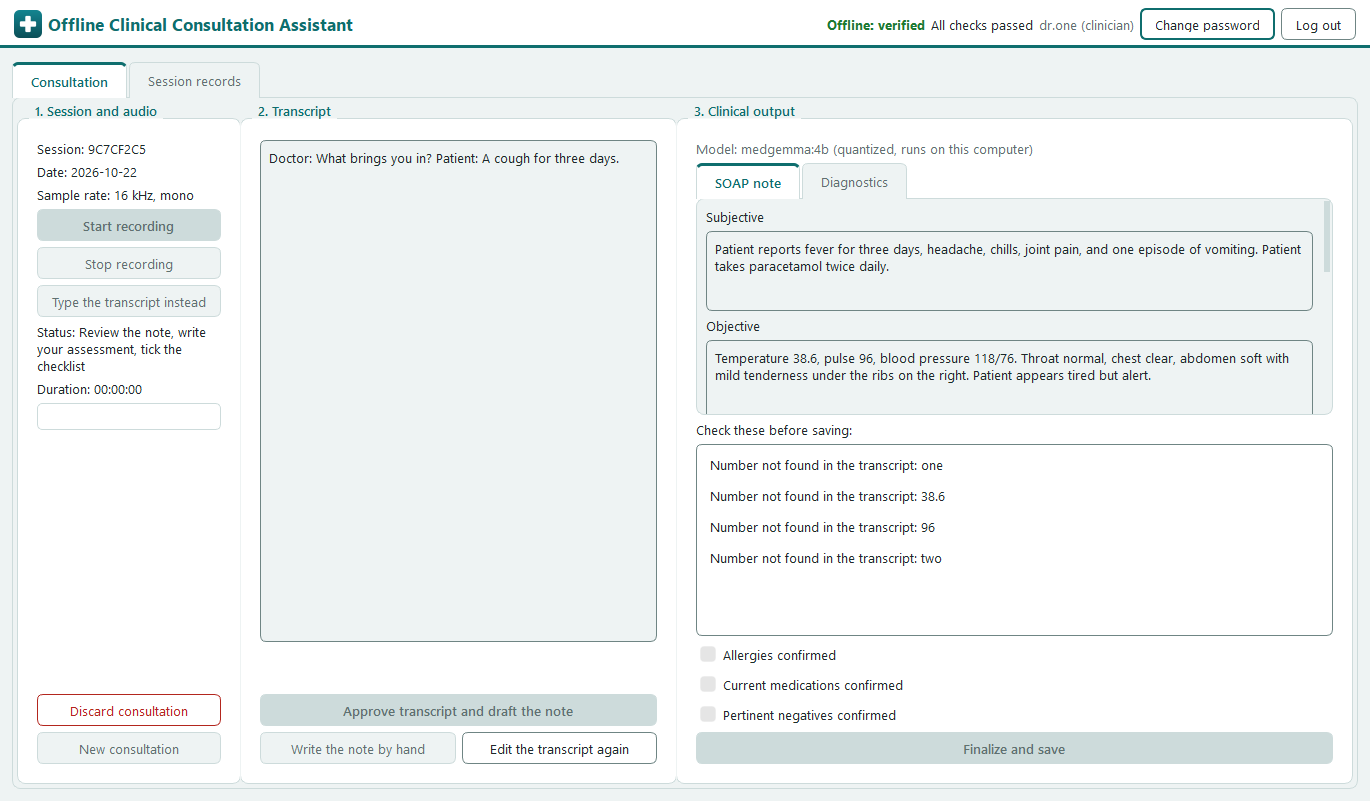
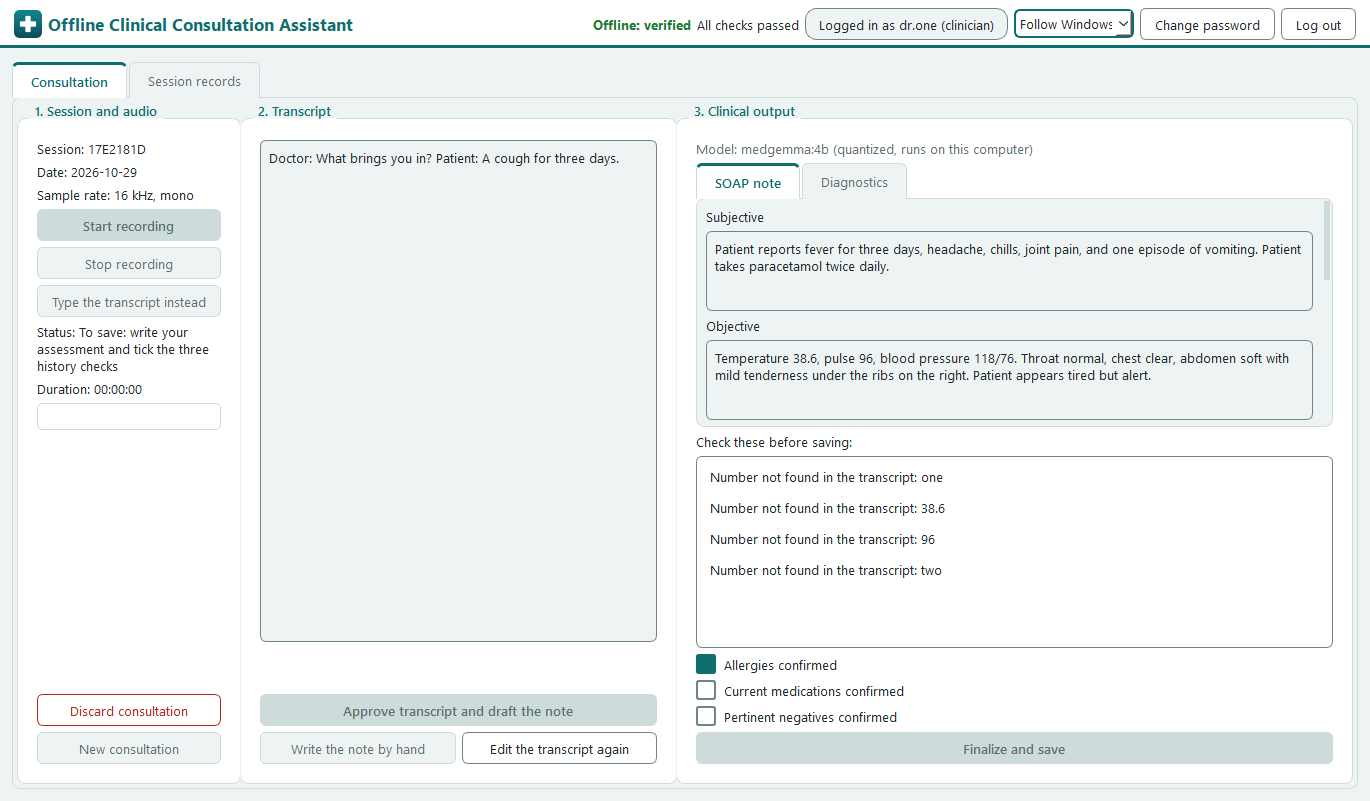
fix(ui): checklist boxes with a visible outline and a filled tick, in both themes
The history checklist is the second clinician gate, but the default box
was a pale outline on the panel and hard to see. The box now uses the
control outline (3.8:1 or more) and a ticked box fills with the brand
teal. The new test measures both; it failed on the first attempt, which
filled ticks with the button teal at 2.7:1 in the dark version. Screenshot
and README caption updated; 731 tests.

diff --git a/src/clinassist/ui/theme.py b/src/clinassist/ui/theme.py
@@ -142,6 +142,20 @@ QListWidget:focus, QTableWidget:focus {{
 QPushButton:focus {{ border: 2px solid {c["primary"]}; }}
 QPushButton[kind="primary"]:focus {{ border: 2px solid {c["text"]}; }}
 QCheckBox:focus, QTabBar::tab:focus {{ outline: 2px solid {c["primary"]}; }}
+/* The history checklist is the second clinician gate, so its boxes must be easy to see: the
+   default box was a pale outline on the panel. The outline uses the control colour (at least
+   3:1, WCAG 1.4.11) and a ticked box fills with the brand teal, which stays at least 3:1 against
+   the panel in both versions (the darker button teal does not in the dark one). */
+QCheckBox {{ spacing: 8px; }}
+QCheckBox::indicator {{
+    width: 16px; height: 16px; border: 2px solid {c["control_border"]}; border-radius: 3px;
+    background: {c["input"]};
+}}
+QCheckBox::indicator:hover {{ border-color: {c["primary"]}; }}
+QCheckBox::indicator:checked {{
+    background: {c["primary"]}; border-color: {c["primary"]};
+}}
+QCheckBox::indicator:disabled {{ border-color: {c["border"]}; background: {c["bg"]}; }}
 QLabel[tone="ai"] {{ color: {c["ai"]}; font-weight: 600; }}
 QLabel[tone="error"] {{ color: {c["error"]}; }}
 QLabel[tone="ok"] {{ color: {c["ok"]}; }}

diff --git a/tests/test_ui.py b/tests/test_ui.py
@@ -905,6 +905,20 @@ def test_theme_has_a_light_and_a_dark_version_with_the_brand_colour():
         assert "#appHeader" in sheet
 
 
+@pytest.mark.parametrize("name", ["LIGHT", "DARK"])
+def test_checkboxes_have_a_visible_outline_and_a_filled_tick(name):
+    """The history checklist (gate 2) must be visible: an outline of at least 3:1 against the
+    panel and the box, and a ticked box filled with a colour that stands out from the panel."""
+    from clinassist.ui import theme
+
+    c = getattr(theme, name)
+    sheet = theme.stylesheet(c)
+    assert "QCheckBox::indicator" in sheet and "QCheckBox::indicator:checked" in sheet
+    for background in (c["surface"], c["input"]):
+        assert _contrast(c["control_border"], background) >= 3.0
+    assert _contrast(c["primary"], c["surface"]) >= 3.0
+
+
 def test_the_main_step_on_each_screen_is_marked(qapp, services):
     ws = workspace(services)
     for button in (ws.start_button, ws.approve_button, ws.finalize_button):

diff --git a/README.md b/README.md
@@ -110,7 +110,7 @@ Left to right: the recording controls, the transcript the clinician corrects and
 drafted note. A clinician who does not want to record can choose "Type the transcript instead" and
 type it; the typed text goes through the same approval and checks as a spoken one (AMD-39). The
 clinician's own assessment is separate from the model's text, which is labelled as AI-generated. "Finalize and save" stays disabled until the assessment is written and all three
-history boxes are ticked; here none are ticked yet. The main step on each panel is shown in the
+history boxes are ticked; here one is ticked and two are still to do. The main step on each panel is shown in the
 brand colour, and the program follows the Windows light or dark setting.
 
 Administrators land on their own overview instead (AMD-41), and never see patient notes:
@@ -221,7 +221,7 @@ is recorded.
 | Evaluation: 8 scripted consultations with key facts and traps, scored end to end | FR-05, NFR-03, NFR-06 | built and run; public datasets with clinicians' notes replace clinician scoring (ADR-016) |
 | Windows installer and offline model bundle (Ollama included, pinned and checked), with a self-test | release, AMD-15 | built and installed on the reference PC; a second PC is still to do |
 
-729 tests run on every push, on Windows with Python 3.11 and 3.12, together with
+731 tests run on every push, on Windows with Python 3.11 and 3.12, together with
 lint and format checks.
 
 **Still to do:** installing on a second, clean PC, and applying the amendments to the
